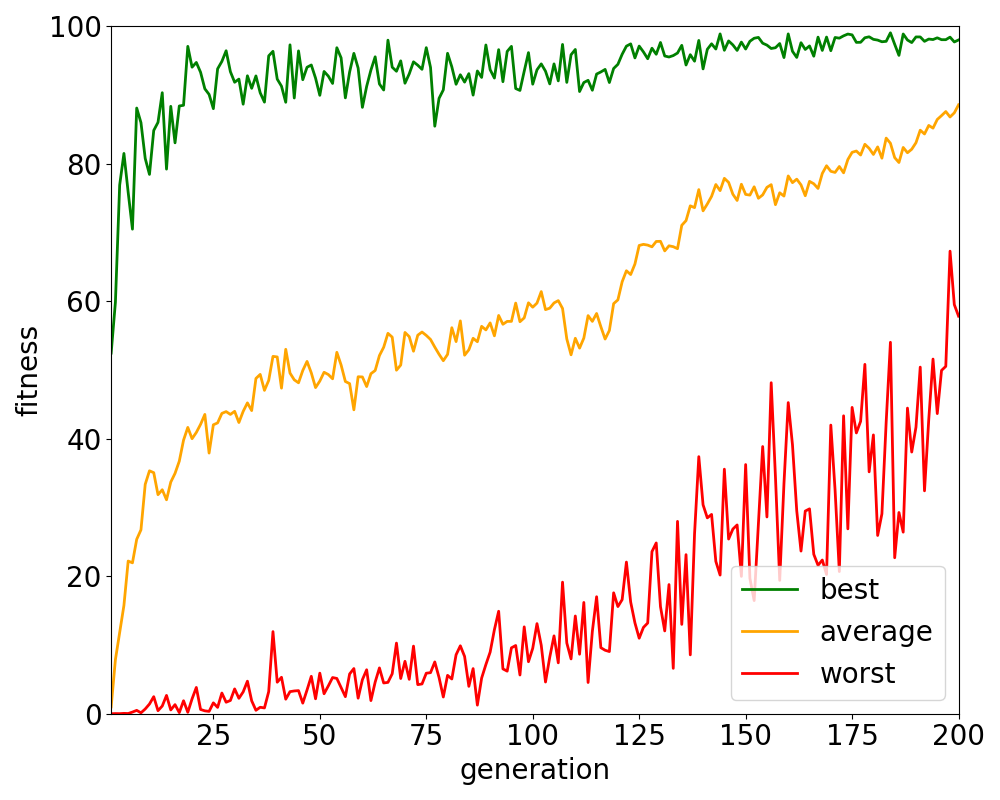
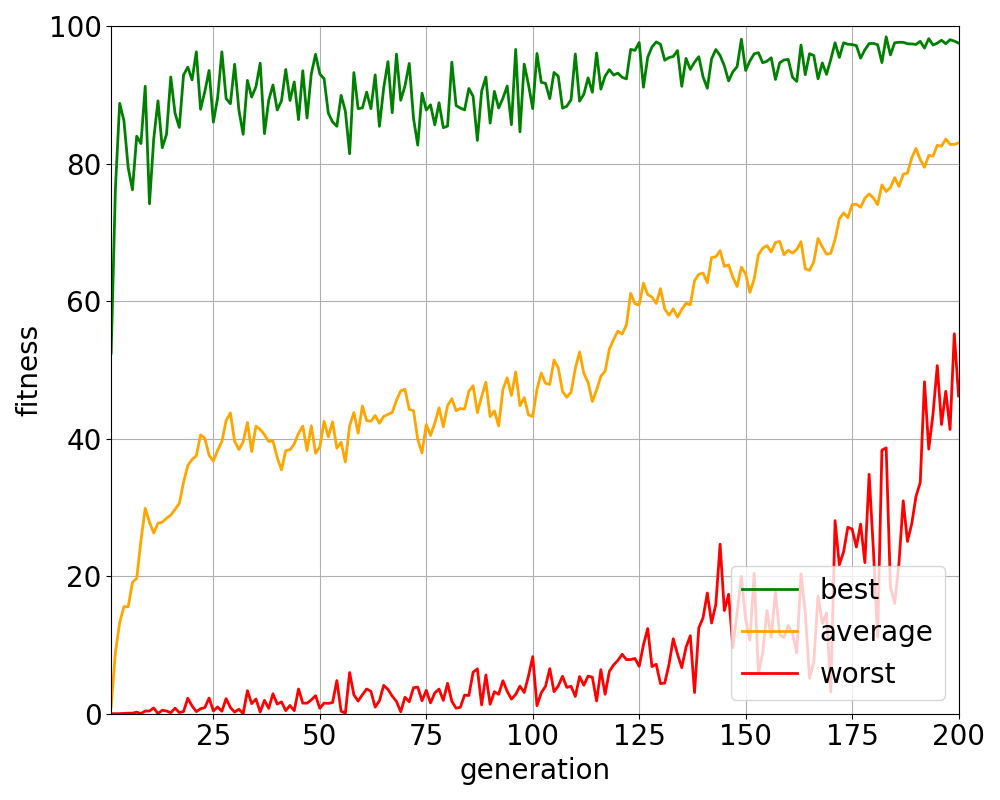
improved scaling utility

diff --git a/src/sites.py b/src/sites.py
@@ -13,22 +13,35 @@ ax1=plt.subplot()
 
 # Load the data from the sites scaling file
 numSites = []
-time1Excite = []
-time2Excite = []
-time3Excite = []
+times = []
 with open("scaling1Excite.dat", "r") as f:
     for line in f:
         split = line.split()
         numSites.append(int(split[0]))
-        time1Excite.append(float(split[1]))
-# with open("scaling2Excite.dat", "r") as f:
-    # for line in f:
-        # split = line.split()
-        # time2Excite.append(float(split[1]))
+        times.append([])
+        for val in split[1:]:
+            times[-1].append(float(val))
+
+# Calculate averages
+avgs = []
+errors = []
+for vals in times:
+    mean = sum(vals) / len(vals)
+    sd = math.sqrt(sum([(x-mean)**2 for x in vals]))
+    err = sd / sqrt(len(vals))
+    avgs.append(mean)
+    errors.append(err)
 
 # Plot each line
-plt.plot(numSites, time1Excite, "-g^", ms=10, lw=2, label="1 excitation (left end to right end)")
-# plt.plot(numSites, time2Excite, "--b^", ms=10, lw=2, label="2 excitations (both ends to both ends)")
+plt.plot(numSites, avgs, "-g^", ms=10, lw=2, label="1 excitation (left end to right end)")
+plt.errorbar(numSites, avgs, yerr=errors, fmt="none", color='grey', elinewidth=2,capthick=3,capsize=7)
+
+# Line of best fit
+# coef = np.polyfit(numSites,avgs,1,w=[1/a for a in errors])
+# coef = np.polyfit(numSites,avgs,1)
+coef = np.polyfit(numSites,avgs,1,w=[i for i, a in enumerate(errors)])
+poly1d_fn = np.poly1d(coef) 
+plt.plot(numSites[4:], poly1d_fn(numSites[4:]), '--r')
 
 # Set the size of the axis ticks
 ax1.tick_params(axis='y', pad=10, labelsize=20)
@@ -42,9 +55,6 @@ ax1.set_xlabel("spins in linear chain", labelpad=10)
 ax1.set_ylabel("time to optimise for 99% fidelity (s)", labelpad=20)
 plt.xlim(min(numSites)-1, max(numSites)+1)
 ax1.xaxis.set_major_locator(MaxNLocator(integer=True))
-
-# Add the legend
-# l=legend(loc='upper left', ncol=1, fontsize=20)
 
 # Nicer spacing
 plt.tight_layout()

diff --git a/src/genetic.py b/src/genetic.py
@@ -41,6 +41,7 @@ ax1.tick_params(axis='x', labelsize=20)
 # Set the names of the axis labels
 plt.xlabel('generation', fontsize=20, color='black')
 plt.ylabel('fitness', fontsize=20, color='black')
+plt.grid(True)
 plt.tight_layout()
 
 # Add the legend
